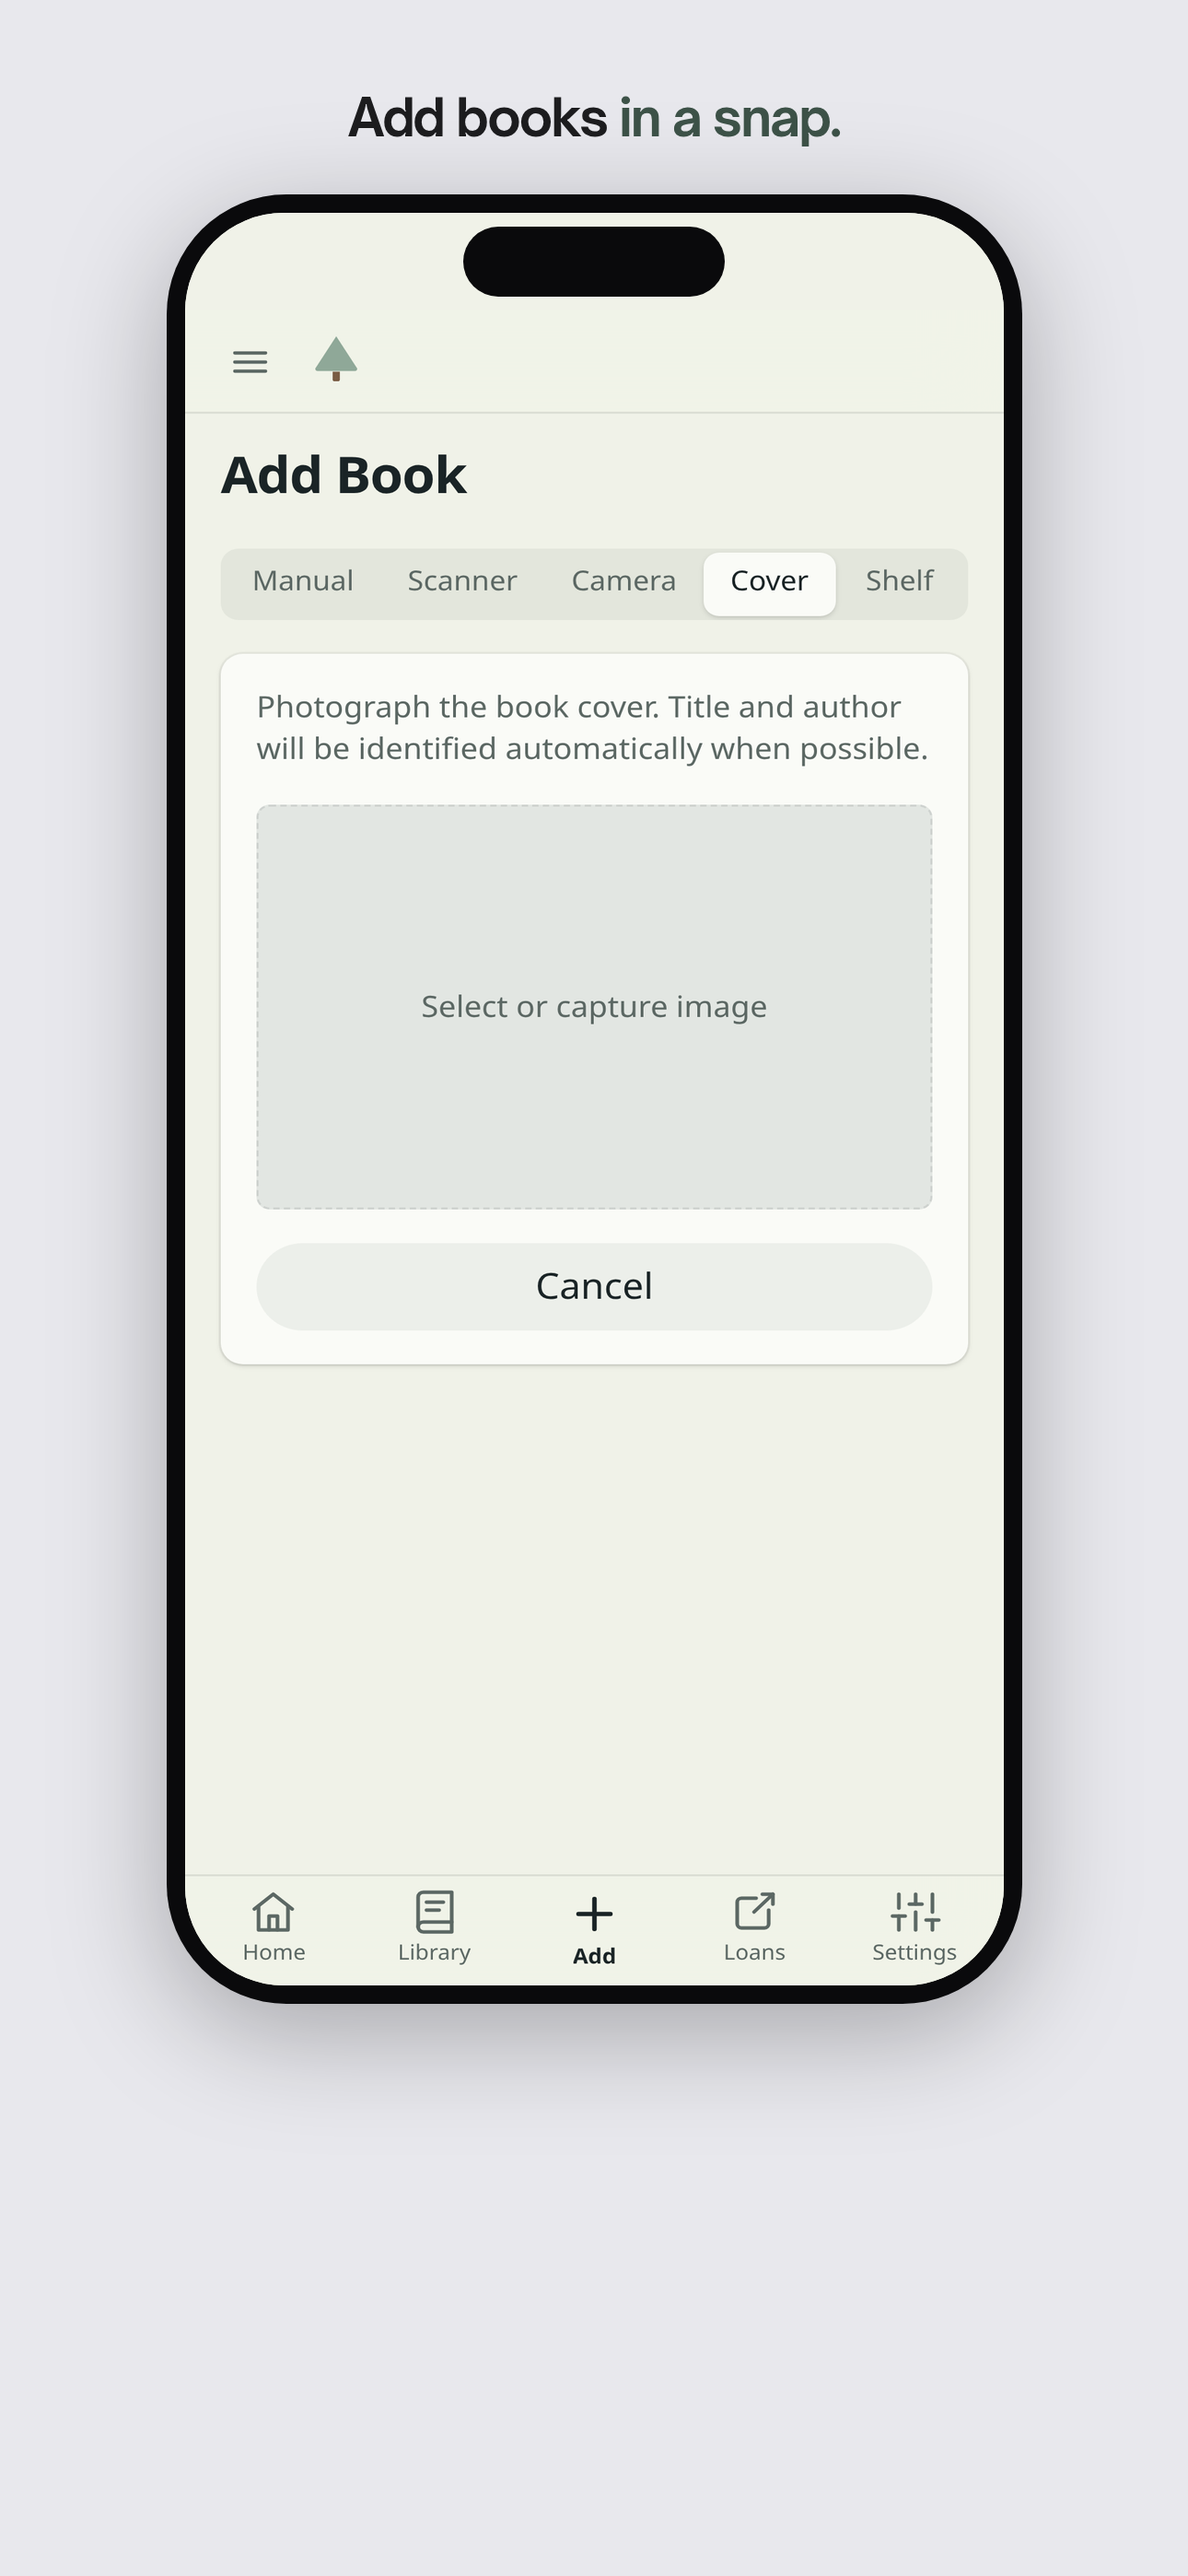
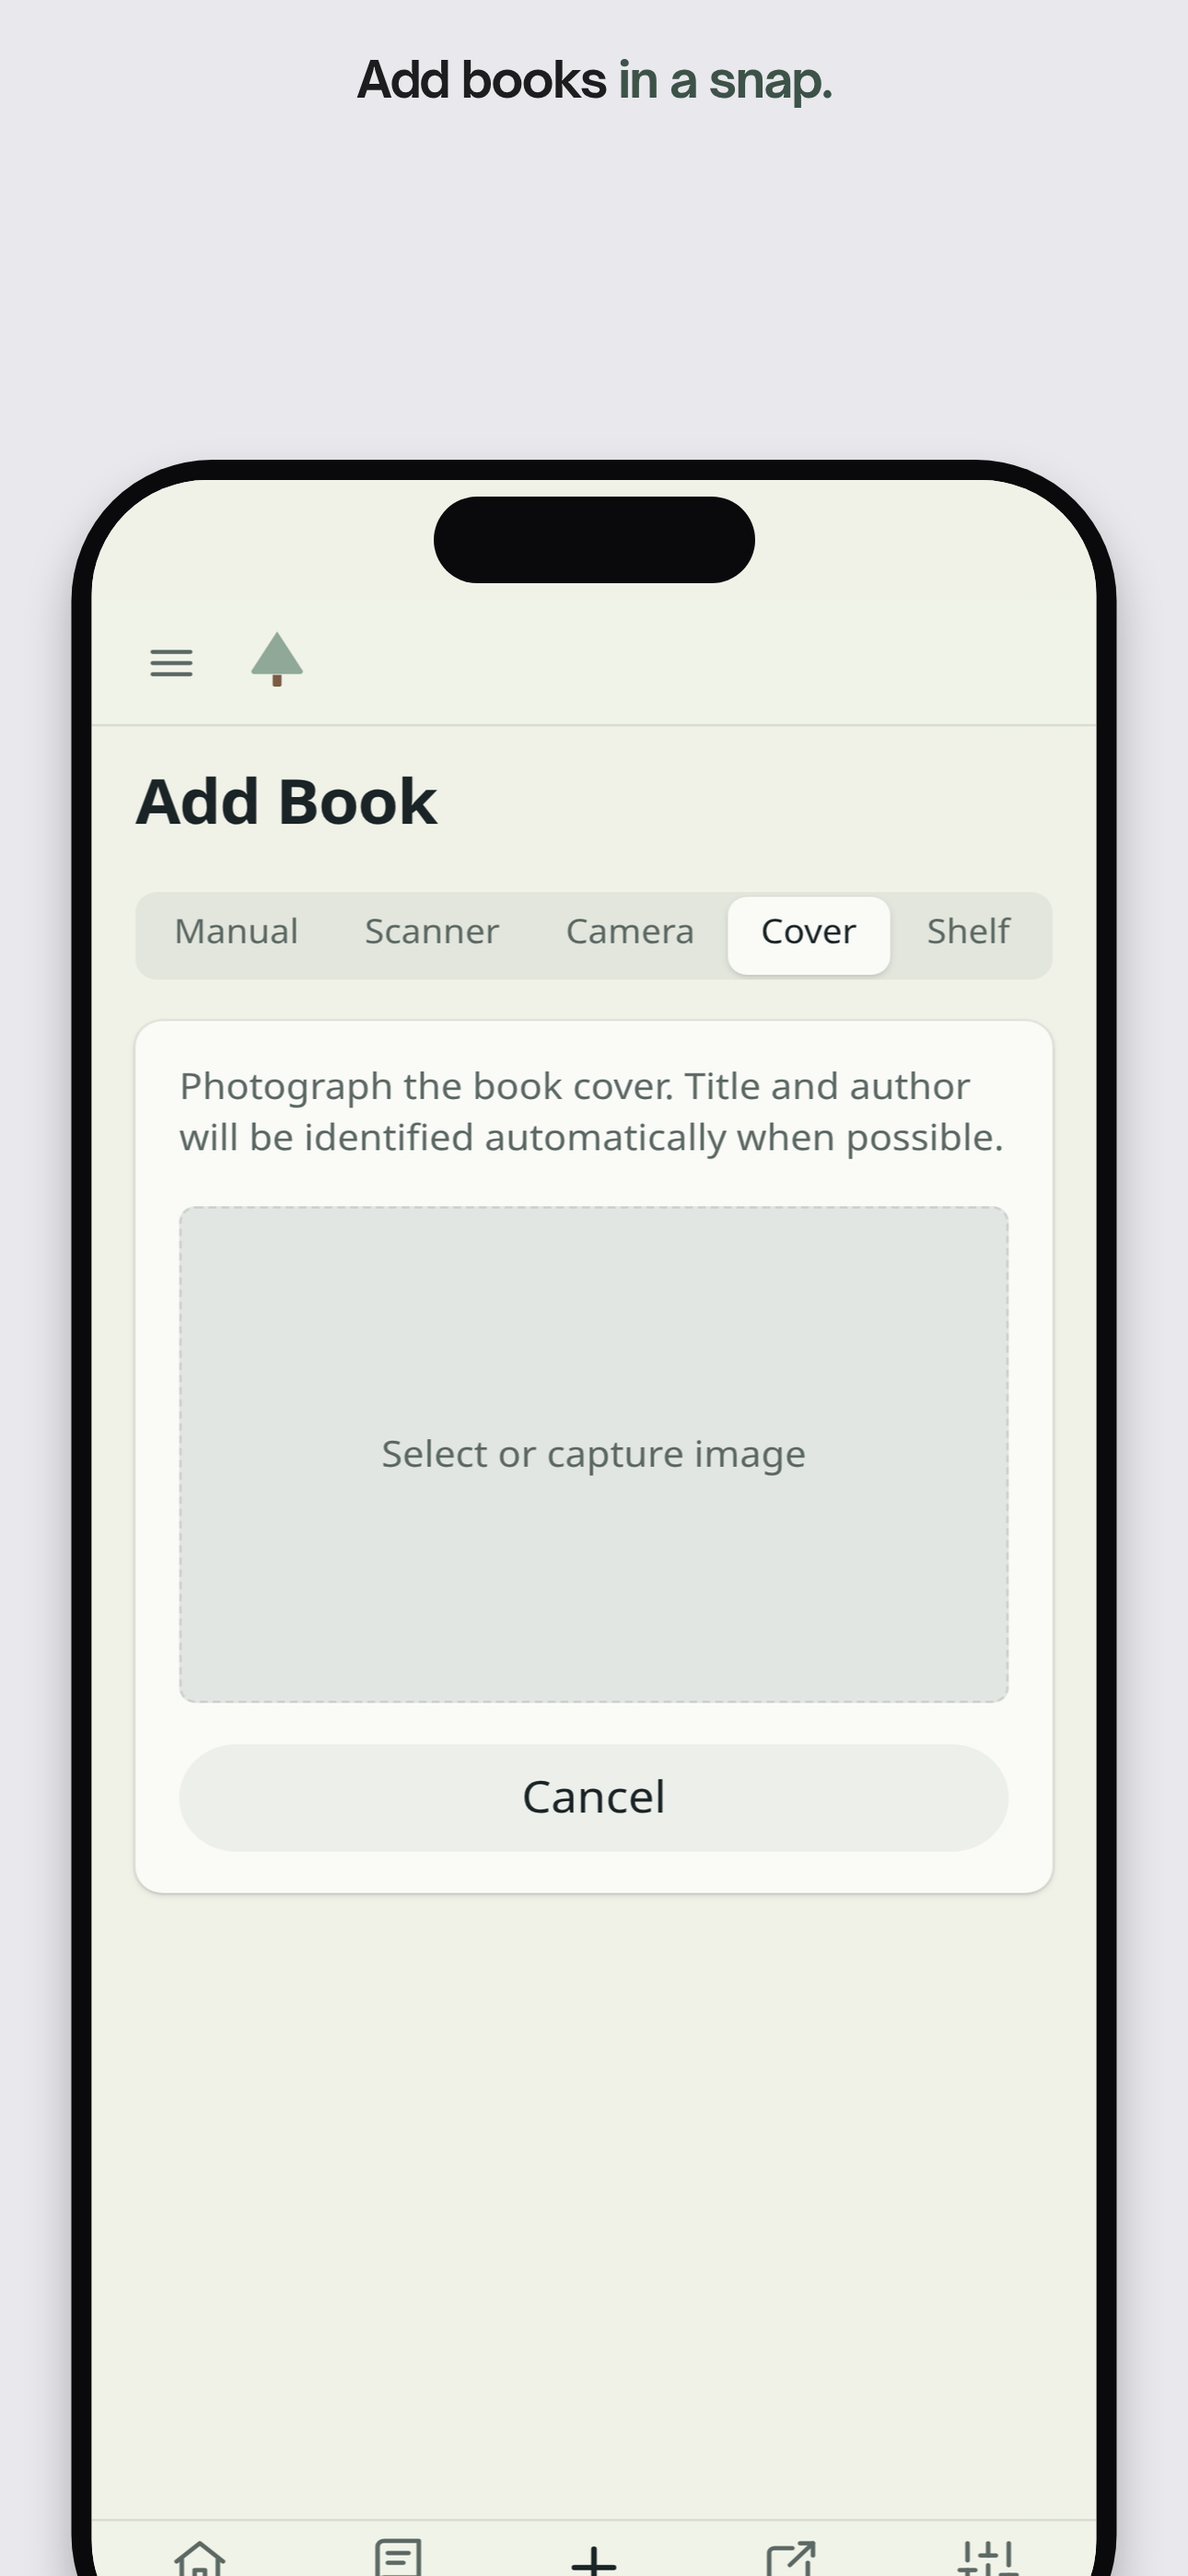
Tighten App Store mockup bottom spacing
Anchor the phone to the bottom of the card with a slight clip so
there is no empty gray strip under the device, while keeping side
and bottom bezels readable.

diff --git a/marketing/app-store/README.md b/marketing/app-store/README.md
@@ -4,6 +4,7 @@ Apple Books layout at **device aspect** (1290×2796):
 
 - Full-bleed light gray panel (not a wide card on white)
 - Large iPhone with Dynamic Island in a status band (does not cover UI)
+- Phone anchored to the bottom and clipped (no empty gray strip under the device)
 - Headline accent in brand forest green `#3d5248` (not orange)
 - Live Pine screenshots inside
 
